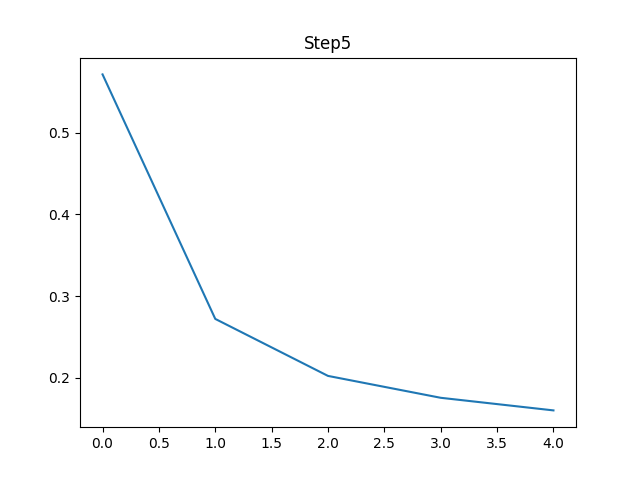
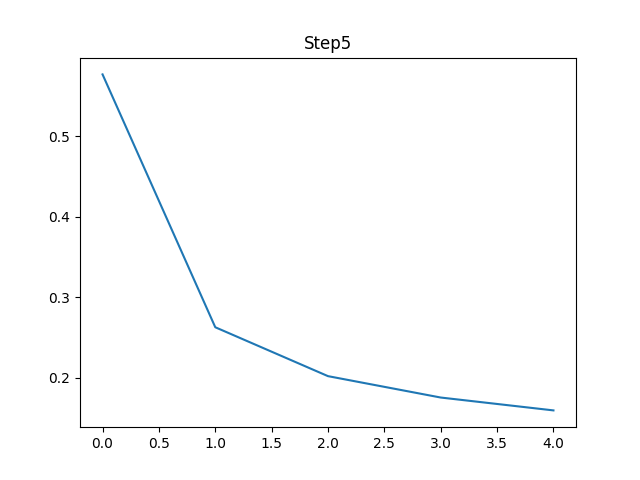
step5 + test

diff --git a/src/step5.py b/src/step5.py
@@ -143,7 +143,69 @@ for i in range(count_epoch):
         b3 = b3 - (learning_rate * (gb3 / batch_size))
 
     costs.append(cost/60000)
-    #print("Accuracy after epoch.", n+1, "is", accuracy/100, "%")
 
 print(f"Accuracy is: {(accuracy/60000) * 100}%")
 show_cost(5, count_epoch, costs)
+
+
+
+costs = []
+for i in range(count_epoch):
+
+    accuracy = 0
+    cost = 0
+
+    # np.random.shuffle(train_set)
+    b_size = int(10000 / batch_size)
+
+    for i in range(b_size):
+        gw1 = np.zeros((16, 784))
+        gw2 = np.zeros((16, 16))
+        gw3 = np.zeros((10, 16))
+        gb1 = np.zeros((16, 1))
+        gb2 = np.zeros((16, 1))
+        gb3 = np.zeros((10, 1))
+        ga2 = np.zeros((16, 1))
+        ga1 = np.zeros((16, 1))
+        
+        for q in range(batch_size):
+            element_num = i * batch_size + q
+            main_mtx = np.asarray(train_set[element_num][0])
+            z1 = w1 @ main_mtx + b1
+            mtx2 = sigmoid(z1)
+            z2 = w2 @ mtx2 + b2
+            mtx3 = sigmoid(z2) 
+            z3 = w3 @ mtx3 + b3
+            f_mtx = sigmoid(z3) 
+            
+            cost += sum(pow((f_mtx - train_set[element_num][1]), 2))
+
+            y = train_set[element_num][1]
+
+            gw3 += (2 * (f_mtx - y) * sigmoid_deriv(z3)) @ np.transpose(mtx3)
+            gb3 += (2 * (f_mtx - y) * sigmoid_deriv(z3))
+            ga2 = np.transpose(w3) @ (2 * (f_mtx - y) * sigmoid_deriv(z3))
+            gw2 += (ga2 * sigmoid_deriv(z2)) @ np.transpose(mtx2)
+            gb2 += (ga2 * sigmoid_deriv(z2))
+            ga1 = np.transpose(w2) @ (ga2 * sigmoid_deriv(z2))
+            gw1 += (ga1 * sigmoid_deriv(z1) @ np.transpose(main_mtx))
+            gb1 += (ga1 * sigmoid_deriv(z1))
+
+            max_value = np.max(f_mtx)
+            index_max_value = np.argmax(f_mtx)
+
+            if train_set[element_num][1][index_max_value] == 1:
+                accuracy += 1
+
+        w1 = w1 - (learning_rate * (gw1 / batch_size))
+        w2 = w2 - (learning_rate * (gw2 / batch_size))
+        w3 = w3 - (learning_rate * (gw3 / batch_size))
+        
+        b1 = b1 - (learning_rate * (gb1 / batch_size))
+        b2 = b2 - (learning_rate * (gb2 / batch_size))
+        b3 = b3 - (learning_rate * (gb3 / batch_size))
+
+    costs.append(cost/10000)
+
+print(f"Accuracy is: {(accuracy/10000) * 100}%")
+show_cost("5 test", count_epoch, costs)
